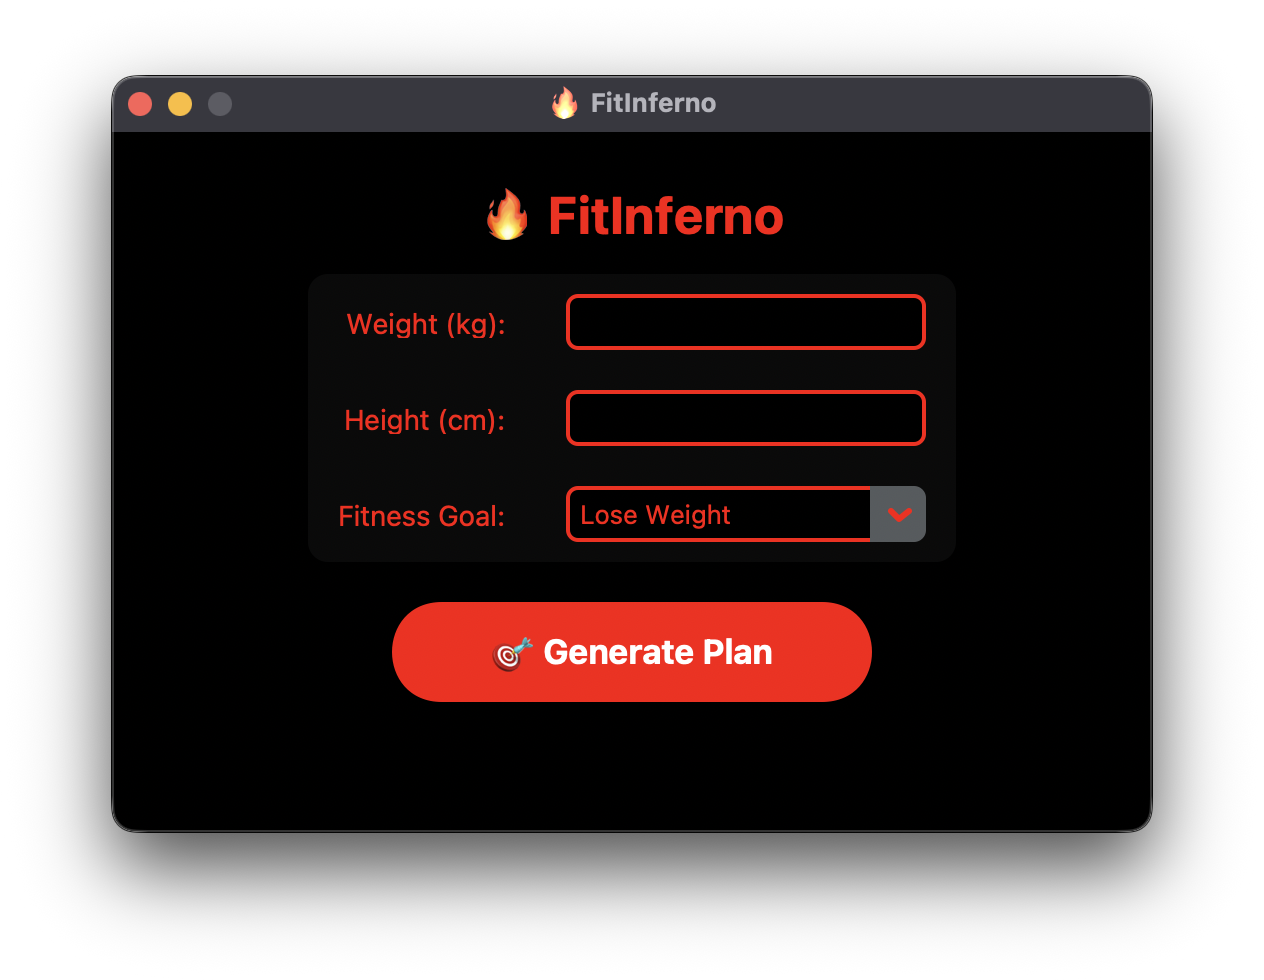
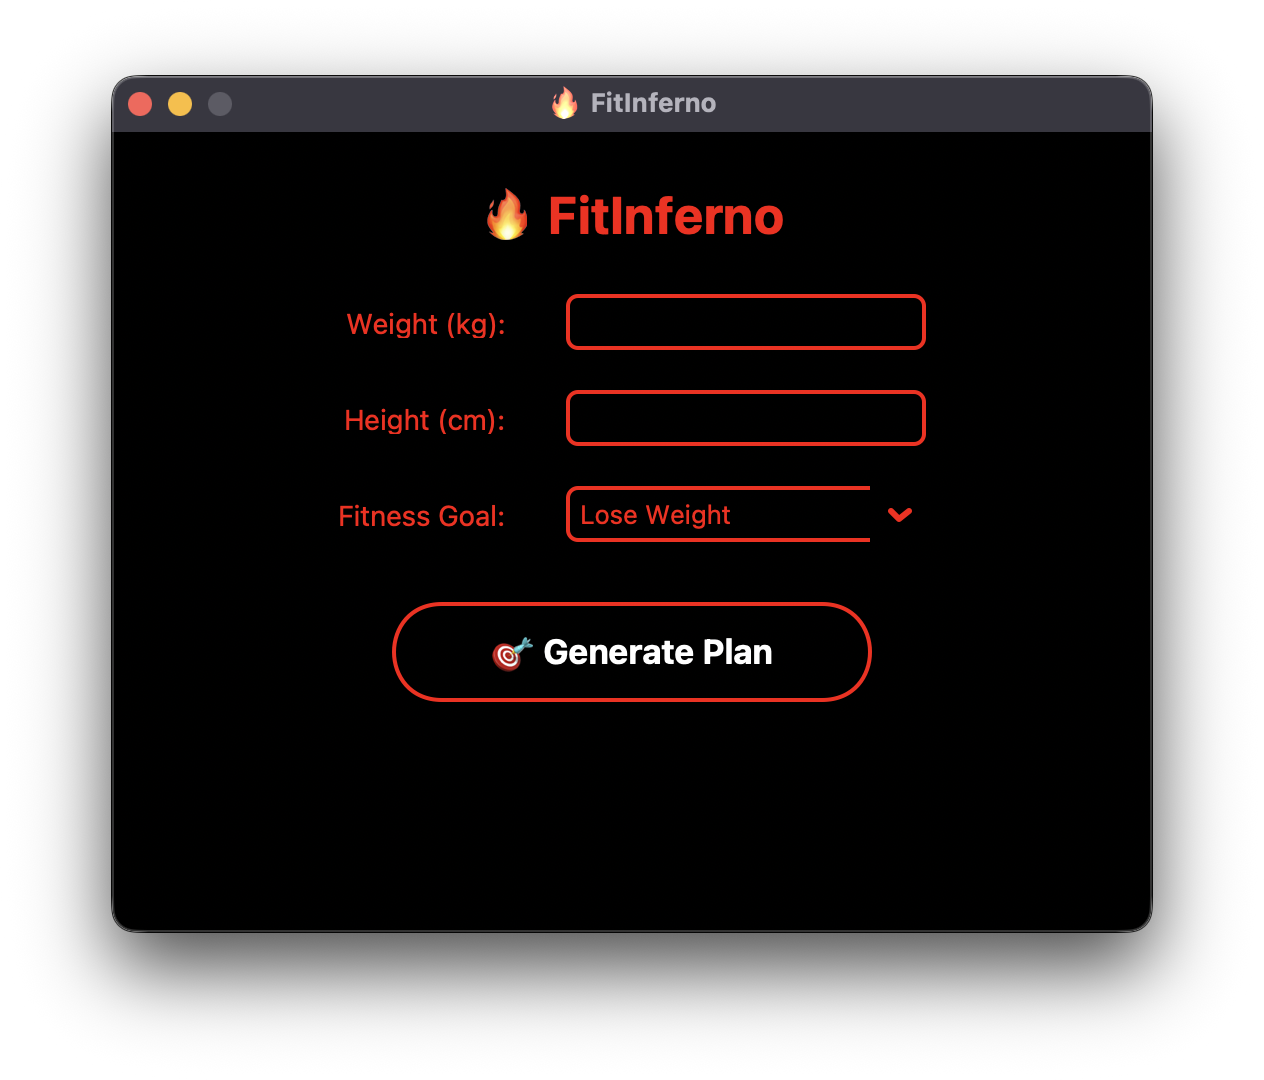
💪🏻 Turned heat into code — FitInferno deployed

diff --git a/FitInferno.py b/FitInferno.py
@@ -53,19 +53,19 @@ def calculate():
 # --- GUI ---
 app = ctk.CTk()
 app.title("🔥 FitInferno")
-app.geometry("520x350")
+app.geometry("520x400")
 app.resizable(False, False)
-app.configure(fg_color="#000000")  # AMOLED background
+app.configure(fg_color="#000000")  # AMOLED pitch black
 
-# Real Hot Red
+# Colors
 MAIN_RED = "#FF0000"
-HOVER_RED = "#FF3333"
+WHITE = "#FFFFFF"
 
 # Title
 ctk.CTkLabel(app, text="🔥 FitInferno", font=("Segoe UI", 26, "bold"), text_color=MAIN_RED).pack(pady=(25, 15))
 
-# Input Frame
-frame = ctk.CTkFrame(app, width=460, height=180, corner_radius=10, fg_color="#0a0a0a")
+# Input Frame - pure black
+frame = ctk.CTkFrame(app, width=460, height=180, corner_radius=10, fg_color="#000000")
 frame.pack(pady=(0, 10))
 frame.pack_propagate(False)
 frame.grid_columnconfigure((0, 1), weight=1)
@@ -85,10 +85,11 @@ entry_height.grid(row=1, column=1, padx=15, pady=10, sticky="w")
 # Goal
 ctk.CTkLabel(frame, text="Fitness Goal:", font=label_font, text_color=MAIN_RED).grid(row=2, column=0, padx=15, pady=10, sticky="e")
 combo_goal = ctk.CTkComboBox(frame, values=["Lose Weight", "Gain Muscle", "Stay Fit", "Other"],
-                             width=180, fg_color="#000000", text_color=MAIN_RED, border_color=MAIN_RED)
+                             width=180, fg_color="#000000", text_color=MAIN_RED, border_color=MAIN_RED,
+                             button_color="#000000", button_hover_color="#111111")
 combo_goal.grid(row=2, column=1, padx=15, pady=10, sticky="w")
 
-# Red Button (No Pulse)
+# Red Outline Button with White Text (No Fill)
 glow_btn = ctk.CTkButton(
     app,
     text="🎯 Generate Plan",
@@ -96,16 +97,17 @@ glow_btn = ctk.CTkButton(
     font=("Segoe UI", 17, "bold"),
     width=240,
     height=50,
-    fg_color=MAIN_RED,
-    hover_color=HOVER_RED,
-    text_color="white",
+    fg_color="transparent",       # No fill
+    border_width=2,
+    border_color=MAIN_RED,
+    text_color=WHITE,
+    hover_color="#1a1a1a",
     corner_radius=25,
 )
 glow_btn.pack(pady=(10, 15))
 
-# Output Label
+# Output in red
 result_label = ctk.CTkLabel(app, text="", font=("Segoe UI", 15), wraplength=480, justify="left", text_color=MAIN_RED)
 result_label.pack(pady=(5, 10))
 
-# No animation anymore!
 app.mainloop()
